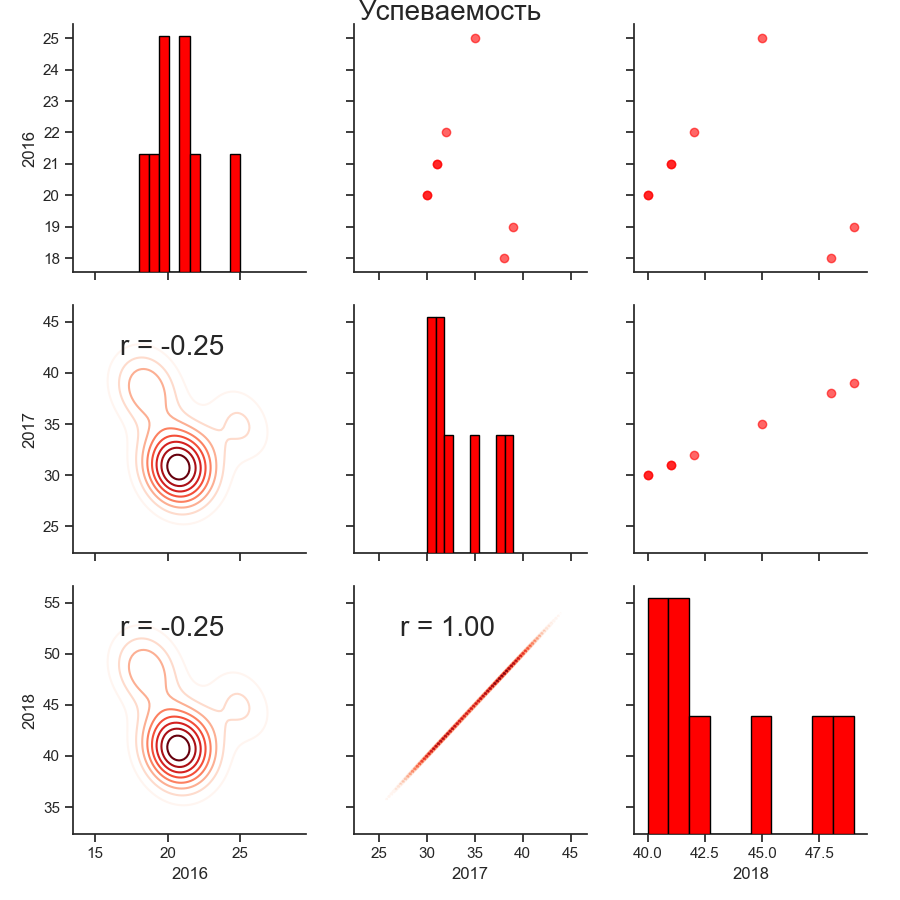
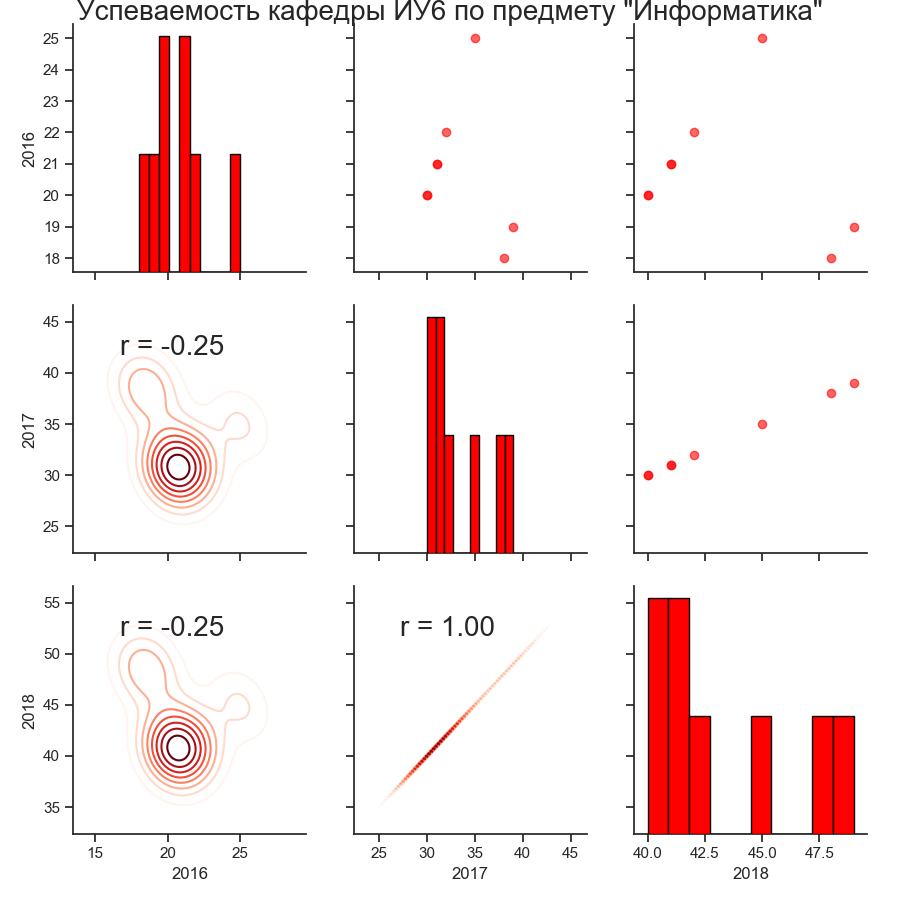
Draft commit

diff --git a/semester_corr.py b/semester_corr.py
@@ -65,7 +65,7 @@ grid.map_lower(corr_func)
 grid.map_lower(sns.kdeplot, cmap=plt.cm.Reds)
 
 # Title for entire plot
-plt.suptitle(u"Успеваемость", size=20, y=1)
+plt.suptitle(u"Успеваемость кафедры ИУ6 по предмету \"Информатика\"", size=20, y=1)
 
 # plt.draw()
 plt.savefig('semester_corr.png')

diff --git a/semester_stat.py b/semester_stat.py
@@ -43,6 +43,7 @@ plt.plot(df3.index, df3["Value"].values, marker="o", label="2018")
 plt.gcf().autofmt_xdate()
 plt.xlabel(u"Семестр")
 plt.ylabel(u"Успеваемость, %")
+plt.title(u"Успеваемость кафедры ИУ6 по предмету \"Информатика\"")
 plt.legend()
 
 plt.savefig('semester_stat.png')
